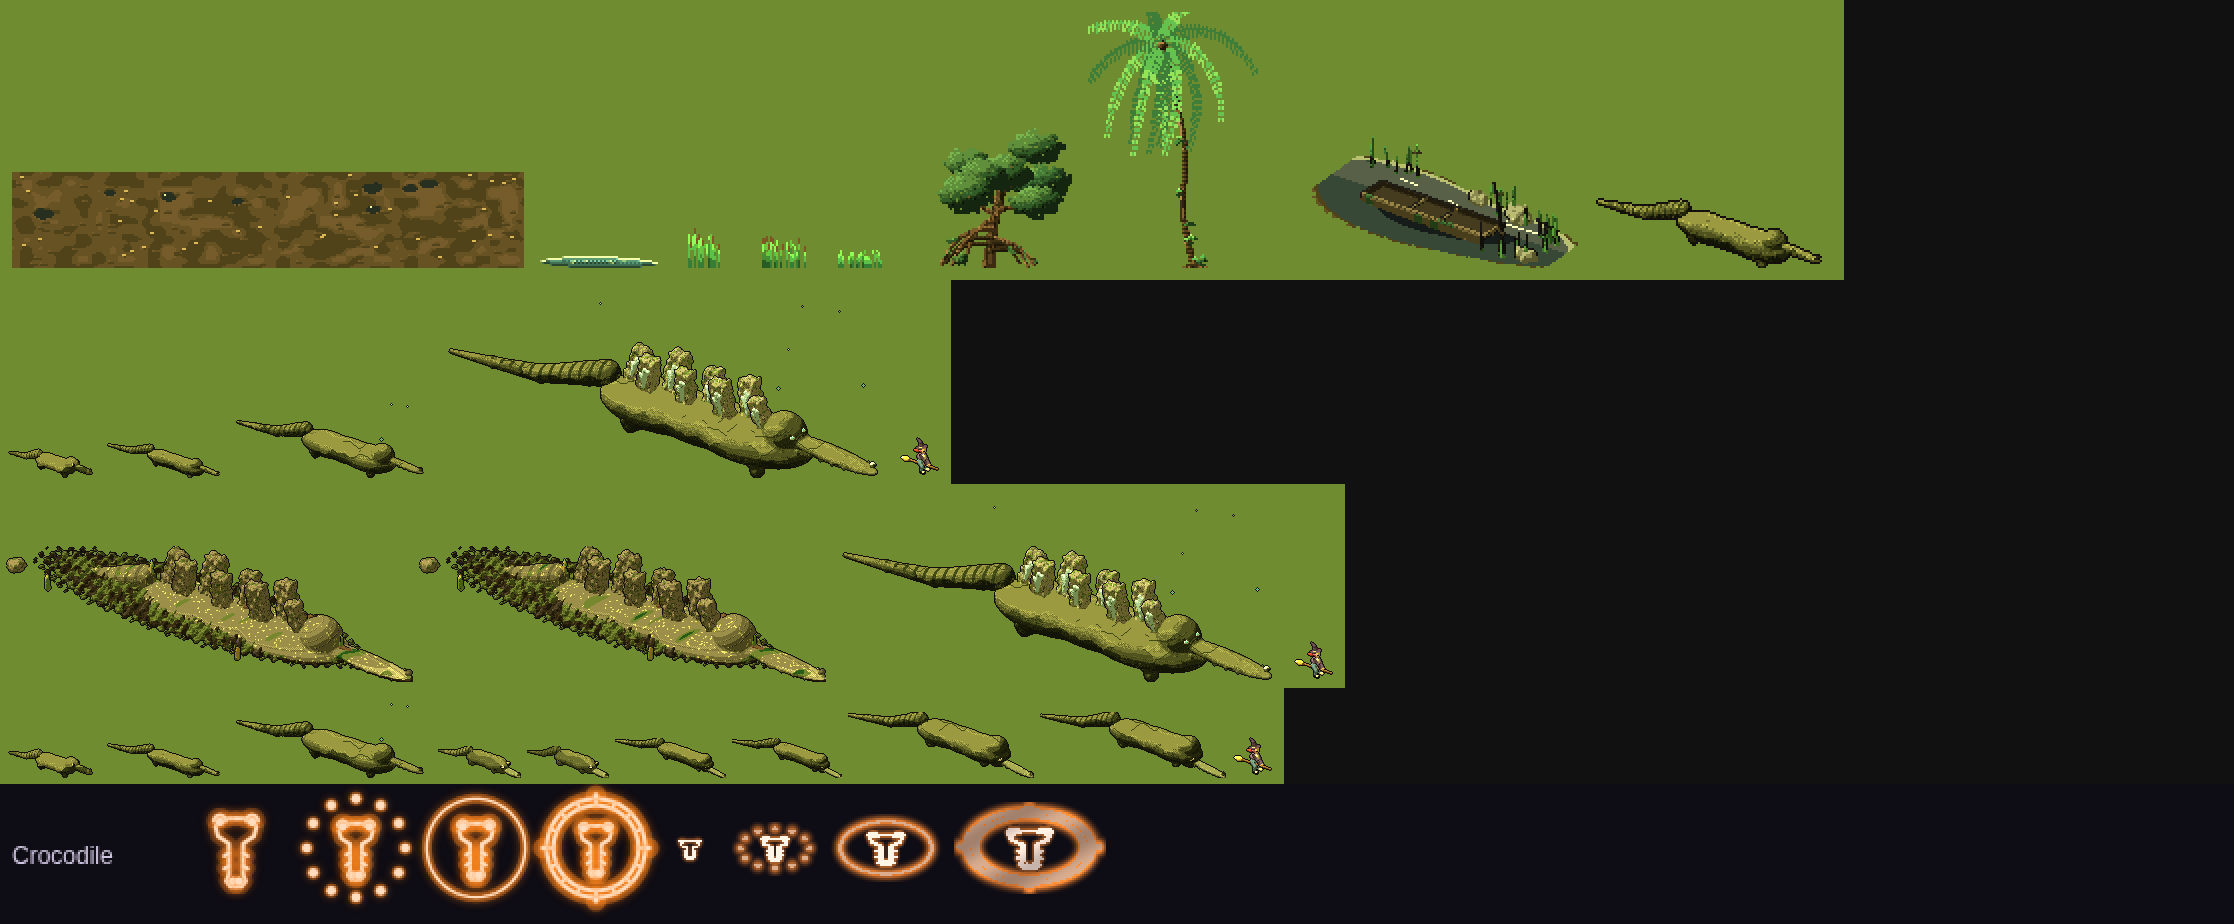
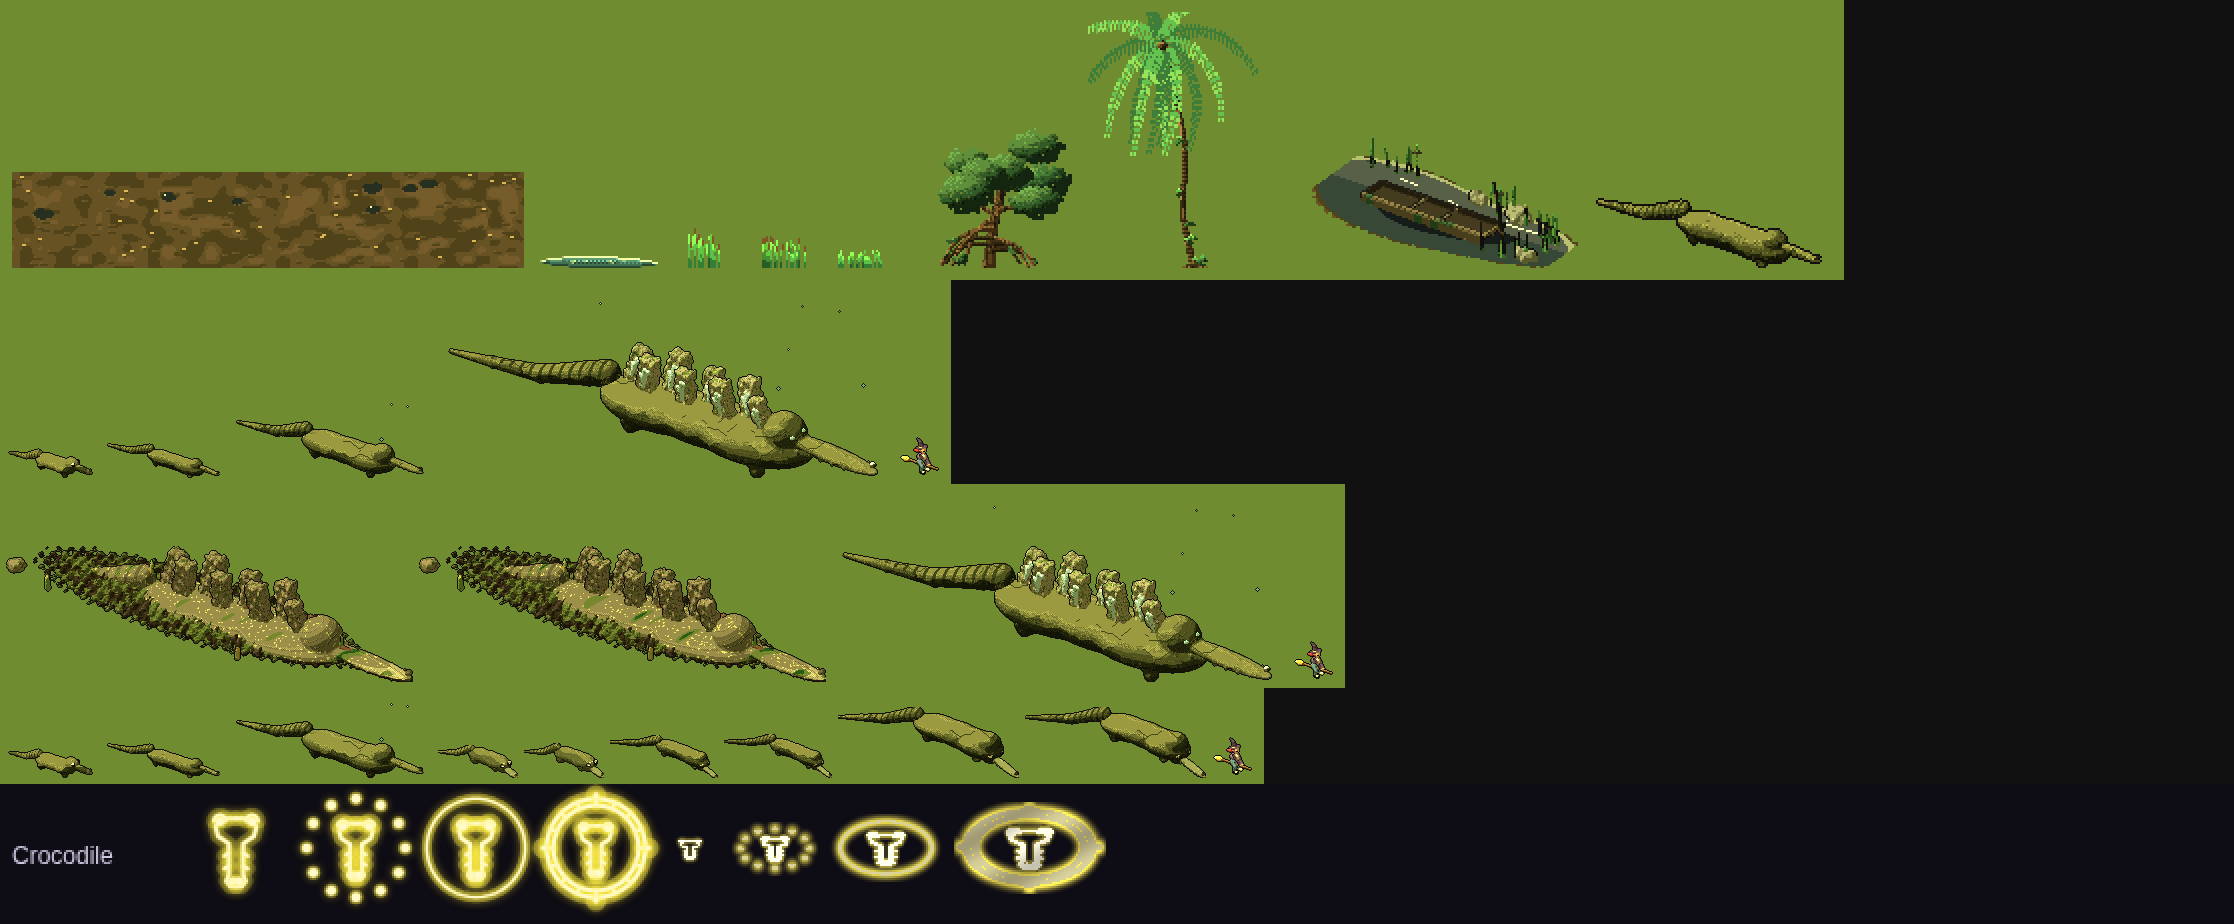
Crocodile: its sigil in lemon (the meerkat next to it is orange)
Claude-Session: https://claude.ai/code/session_01Bjkncrw3UwUjcmr8Y3vdKy

Changed region(s): [[0.0927, 0.7576, 0.4942, 1.0], [0.4633, 0.7273, 0.5868, 0.8485]]

diff --git a/art/sigils.js b/art/sigils.js
@@ -339,7 +339,7 @@ export function legendSigilMask(id, size = 256, { tier = legendTier(size), minPx
 export const NEON = { pink: [255, 64, 200], cyan: [50, 235, 255], acid: [175, 255, 45], violet: [165, 95, 255], orange: [255, 135, 35], lemon: [255, 238, 70], red: [255, 55, 95], mint: [70, 255, 175], blue: [70, 145, 255], magenta: [235, 70, 255] };
 // Each species' slot, given in the order of the area types they live in (areas.js), ten apart,
 // so area types near each other in the list never share a colour.
-export const SIGIL_NEON = { heron: "blue", badger: "pink", boar: "cyan", snail: "acid", fox: "violet", ram: "orange", woodlouse: "lemon", hedgehog: "red", squirrel: "mint", wolf: "blue", stag: "magenta", stoat: "pink", snake: "cyan", hare: "acid", owl: "violet", bear: "orange", toad: "lemon", otter: "red", lynx: "mint", elk: "blue", raven: "magenta", bat: "pink", mole: "cyan", beaver: "acid", beetle: "violet", moth: "orange", marten: "lemon", salamander: "red", glowworm: "mint", spider: "blue", dormouse: "magenta", newt: "acid", crocodile: "orange", meerkat: "orange", worldTree: "mint" };
+export const SIGIL_NEON = { heron: "blue", badger: "pink", boar: "cyan", snail: "acid", fox: "violet", ram: "orange", woodlouse: "lemon", hedgehog: "red", squirrel: "mint", wolf: "blue", stag: "magenta", stoat: "pink", snake: "cyan", hare: "acid", owl: "violet", bear: "orange", toad: "lemon", otter: "red", lynx: "mint", elk: "blue", raven: "magenta", bat: "pink", mole: "cyan", beaver: "acid", beetle: "violet", moth: "orange", marten: "lemon", salamander: "red", glowworm: "mint", spider: "blue", dormouse: "magenta", newt: "acid", crocodile: "lemon", meerkat: "orange", worldTree: "mint" };
 export const sigilColour = id => NEON[SIGIL_NEON[id]] || NEON.cyan;
 const WHITE = [255, 255, 250], toward = (c, w, k) => c.map((v, j) => Math.round(v + (w[j] - v) * k));
 const rgb = c => `rgb(${c.join(",")})`;

diff --git a/tools/art-lab/dist/witch-art-lab.html b/tools/art-lab/dist/witch-art-lab.html
@@ -7234,7 +7234,7 @@ function legendSigilMask(id, size = 256, { tier = legendTier(size), minPx = 1 } 
 const NEON = { pink: [255, 64, 200], cyan: [50, 235, 255], acid: [175, 255, 45], violet: [165, 95, 255], orange: [255, 135, 35], lemon: [255, 238, 70], red: [255, 55, 95], mint: [70, 255, 175], blue: [70, 145, 255], magenta: [235, 70, 255] };
 // Each species' slot, given in the order of the area types they live in (areas.js), ten apart,
 // so area types near each other in the list never share a colour.
-const SIGIL_NEON = { heron: "blue", badger: "pink", boar: "cyan", snail: "acid", fox: "violet", ram: "orange", woodlouse: "lemon", hedgehog: "red", squirrel: "mint", wolf: "blue", stag: "magenta", stoat: "pink", snake: "cyan", hare: "acid", owl: "violet", bear: "orange", toad: "lemon", otter: "red", lynx: "mint", elk: "blue", raven: "magenta", bat: "pink", mole: "cyan", beaver: "acid", beetle: "violet", moth: "orange", marten: "lemon", salamander: "red", glowworm: "mint", spider: "blue", dormouse: "magenta", newt: "acid", crocodile: "orange", meerkat: "orange", worldTree: "mint" };
+const SIGIL_NEON = { heron: "blue", badger: "pink", boar: "cyan", snail: "acid", fox: "violet", ram: "orange", woodlouse: "lemon", hedgehog: "red", squirrel: "mint", wolf: "blue", stag: "magenta", stoat: "pink", snake: "cyan", hare: "acid", owl: "violet", bear: "orange", toad: "lemon", otter: "red", lynx: "mint", elk: "blue", raven: "magenta", bat: "pink", mole: "cyan", beaver: "acid", beetle: "violet", moth: "orange", marten: "lemon", salamander: "red", glowworm: "mint", spider: "blue", dormouse: "magenta", newt: "acid", crocodile: "lemon", meerkat: "orange", worldTree: "mint" };
 const sigilColour = id => NEON[SIGIL_NEON[id]] || NEON.cyan;
 const WHITE = [255, 255, 250], toward = (c, w, k) => c.map((v, j) => Math.round(v + (w[j] - v) * k));
 const rgb = c => `rgb(${c.join(",")})`;
